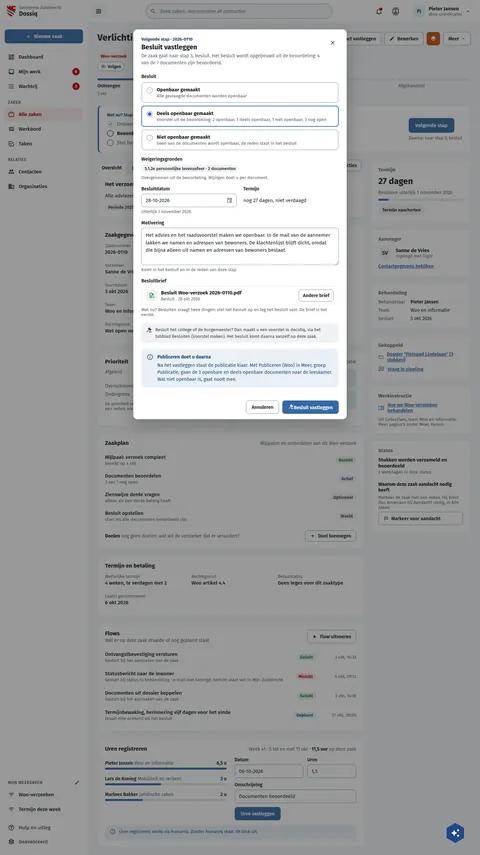
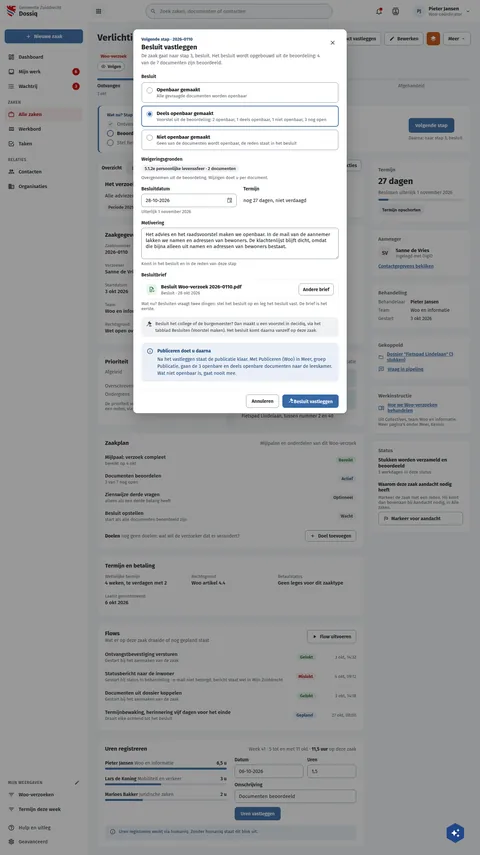
fix(screens): DqBesluit's Motivering on the normal line height
Coordinator decision: textareas keep the normal line height (116 of 183
board textareas, and the board dialog look). DqBesluit's Motivering
drew 1.5, so four rows were 112px where live draws 94.

Assisted-by: ClaudeCode:claude-opus-5-5

Changed region(s): [[0.2812, 0.2737, 0.7188, 0.517]]

diff --git a/preview/screens/boards/DqBesluit.html b/preview/screens/boards/DqBesluit.html
@@ -340,7 +340,7 @@ a{color:var(--sc-primary, #3669a5)}a:hover{color:var(--sc-primary-deep, #234a78)
           <div style="display: flex; flex-direction: column; gap: 6px"><label for="bs-datum" style="font-size: 14px; font-weight: 600">Besluitdatum</label><span style="position: relative; display: block"><input id="bs-datum" type="text" value="28-10-2026" required style="box-sizing: border-box; width: 100%; height: 40px; padding: 0 12px; border: 1px solid var(--sc-work-field, #828a95); border-radius: 8px; background: #ffffff; font: 400 15px var(--sc-font, 'Fira Sans'), sans-serif; color: var(--sc-work-ink, #1b1c1d); padding-right: 40px"><svg width="18" height="18" viewbox="0 0 24 24" fill="#5e6168" style="position: absolute; right: 12px; top: 11px;fill:var(--sc-work-muted, #5e6168)" aria-hidden="true"><path d="M12 12H17V17H12V12M19 3H18V1H16V3H8V1H6V3H5C3.9 3 3 3.9 3 5V19C3 20.1 3.9 21 5 21H19C20.1 21 21 20.1 21 19V5C21 3.9 20.1 3 19 3M19 5V7H5V5H19M5 19V9H19V19H5Z"></path></svg></span><span style="font-size: 13px; color: var(--sc-work-muted, #5e6168)">Uiterlijk 1 november 2026</span></div>
           <div style="display: flex; flex-direction: column; gap: 6px"><span style="font-size: 14px; font-weight: 600">Termijn</span><span style="display: flex; align-items: center; height: 40px; font-size: 15px">nog 27 dagen, niet verdaagd</span></div>
         </div>
-        <div style="display: flex; flex-direction: column; gap: 6px"><label for="bs-motivering" style="font-size: 14px; font-weight: 600">Motivering</label><textarea id="bs-motivering" rows="4" required style="box-sizing: border-box; width: 100%; padding: 10px 12px; border: 1px solid var(--sc-work-field, #828a95); border-radius: 8px; font: 400 15px var(--sc-font, 'Fira Sans'), sans-serif; color: var(--sc-work-ink, #1b1c1d); line-height: 1.5; resize: vertical">Het advies en het raadsvoorstel maken we openbaar. In de mail van de aannemer lakken we namen en adressen van bewoners. De klachtenlijst blijft dicht, omdat die bijna alleen uit namen en adressen van bewoners bestaat.</textarea><span style="font-size: 13px; color: var(--sc-work-muted, #5e6168)">Komt in het besluit en in de reden van deze stap</span></div><div style="display: flex; flex-direction: column; gap: 6px"><span style="font-size: 14px; font-weight: 600">Besluitbrief</span><div style="display: flex; flex-wrap: wrap; align-items: center; gap: 12px; padding: 10px 14px; border: 1px solid var(--sc-work-line, #e4e6ea); border-radius: 8px"><span style="display: inline-flex; width: 32px; height: 32px; border-radius: 8px; background: #e7f3ea; color: #1e6b2a; align-items: center; justify-content: center; flex: none"><svg width="18" height="18" viewbox="0 0 24 24" fill="currentColor" aria-hidden="true"><path d="M23.5 17L18.5 22L15 18.5L16.5 17L18.5 19L22 15.5L23.5 17M6 2C4.89 2 4 2.9 4 4V20C4 21.11 4.89 22 6 22H13.81C13.45 21.38 13.2 20.7 13.08 20H6V4H13V9H18V13.08C18.33 13.03 18.67 13 19 13C19.34 13 19.67 13.03 20 13.08V8L14 2M8 12V14H16V12M8 16V18H13V16Z"></path></svg></span><span style="display: flex; flex-direction: column; gap: 2px; flex: 1 1 240px; min-width: 0"><strong style="font-size: 15px">Besluit Woo-verzoek 2026-0110.pdf</strong><span style="font-size: 13px; color: var(--sc-work-muted, #5e6168)">Besluit · 28 okt 2026</span></span><button type="button" style="height: 36px; padding: 0 12px; border: 1px solid var(--sc-work-field, #828a95); border-radius: 8px; background: #ffffff; font: 600 14px var(--sc-font, 'Fira Sans'), sans-serif; color: var(--sc-work-ink, #1b1c1d)">Andere brief</button></div><span style="font-size: 13px; color: var(--sc-work-muted, #5e6168)">Wat nu? Besluiten vraagt twee dingen: stel het besluit op en leg het besluit vast. De brief is het eerste.</span></div><div style="display: flex; gap: 10px; align-items: flex-start; padding: 10px 14px; border-radius: 10px; background: var(--sc-work-chip, #f0f1f3); color: var(--sc-work-text, #3d4047); font-size: 13px; line-height: 1.5"><svg width="18" height="18" viewbox="0 0 24 24" fill="currentColor" aria-hidden="true" style="flex: none; margin-top: 1px"><path d="M2.3,20.28L11.9,10.68L10.5,9.26L9.78,9.97C9.39,10.36 8.76,10.36 8.37,9.97L7.66,9.26C7.27,8.87 7.27,8.24 7.66,7.85L13.32,2.19C13.71,1.8 14.34,1.8 14.73,2.19L15.44,2.9C15.83,3.29 15.83,3.92 15.44,4.31L14.73,5L16.15,6.43C16.54,6.04 17.17,6.04 17.56,6.43C17.95,6.82 17.95,7.46 17.56,7.85L18.97,9.26L19.68,8.55C20.07,8.16 20.71,8.16 21.1,8.55L21.8,9.26C22.19,9.65 22.19,10.29 21.8,10.68L16.15,16.33C15.76,16.72 15.12,16.72 14.73,16.33L14.03,15.63C13.63,15.24 13.63,14.6 14.03,14.21L14.73,13.5L13.32,12.09L3.71,21.7C3.32,22.09 2.69,22.09 2.3,21.7C1.91,21.31 1.91,20.67 2.3,20.28M20,19A2,2 0 0,1 22,21V22H12V21A2,2 0 0,1 14,19H20Z"></path></svg><span>Besluit het college of de burgemeester? Dan maakt u een voorstel in decidiq, via het tabblad Besluiten (Voorstel maken). Het besluit komt daarna vanzelf op deze zaak.</span></div>
+        <div style="display: flex; flex-direction: column; gap: 6px"><label for="bs-motivering" style="font-size: 14px; font-weight: 600">Motivering</label><textarea id="bs-motivering" rows="4" required style="box-sizing: border-box; width: 100%; padding: 10px 12px; border: 1px solid var(--sc-work-field, #828a95); border-radius: 8px; font: 400 15px var(--sc-font, 'Fira Sans'), sans-serif; color: var(--sc-work-ink, #1b1c1d); resize: vertical">Het advies en het raadsvoorstel maken we openbaar. In de mail van de aannemer lakken we namen en adressen van bewoners. De klachtenlijst blijft dicht, omdat die bijna alleen uit namen en adressen van bewoners bestaat.</textarea><span style="font-size: 13px; color: var(--sc-work-muted, #5e6168)">Komt in het besluit en in de reden van deze stap</span></div><div style="display: flex; flex-direction: column; gap: 6px"><span style="font-size: 14px; font-weight: 600">Besluitbrief</span><div style="display: flex; flex-wrap: wrap; align-items: center; gap: 12px; padding: 10px 14px; border: 1px solid var(--sc-work-line, #e4e6ea); border-radius: 8px"><span style="display: inline-flex; width: 32px; height: 32px; border-radius: 8px; background: #e7f3ea; color: #1e6b2a; align-items: center; justify-content: center; flex: none"><svg width="18" height="18" viewbox="0 0 24 24" fill="currentColor" aria-hidden="true"><path d="M23.5 17L18.5 22L15 18.5L16.5 17L18.5 19L22 15.5L23.5 17M6 2C4.89 2 4 2.9 4 4V20C4 21.11 4.89 22 6 22H13.81C13.45 21.38 13.2 20.7 13.08 20H6V4H13V9H18V13.08C18.33 13.03 18.67 13 19 13C19.34 13 19.67 13.03 20 13.08V8L14 2M8 12V14H16V12M8 16V18H13V16Z"></path></svg></span><span style="display: flex; flex-direction: column; gap: 2px; flex: 1 1 240px; min-width: 0"><strong style="font-size: 15px">Besluit Woo-verzoek 2026-0110.pdf</strong><span style="font-size: 13px; color: var(--sc-work-muted, #5e6168)">Besluit · 28 okt 2026</span></span><button type="button" style="height: 36px; padding: 0 12px; border: 1px solid var(--sc-work-field, #828a95); border-radius: 8px; background: #ffffff; font: 600 14px var(--sc-font, 'Fira Sans'), sans-serif; color: var(--sc-work-ink, #1b1c1d)">Andere brief</button></div><span style="font-size: 13px; color: var(--sc-work-muted, #5e6168)">Wat nu? Besluiten vraagt twee dingen: stel het besluit op en leg het besluit vast. De brief is het eerste.</span></div><div style="display: flex; gap: 10px; align-items: flex-start; padding: 10px 14px; border-radius: 10px; background: var(--sc-work-chip, #f0f1f3); color: var(--sc-work-text, #3d4047); font-size: 13px; line-height: 1.5"><svg width="18" height="18" viewbox="0 0 24 24" fill="currentColor" aria-hidden="true" style="flex: none; margin-top: 1px"><path d="M2.3,20.28L11.9,10.68L10.5,9.26L9.78,9.97C9.39,10.36 8.76,10.36 8.37,9.97L7.66,9.26C7.27,8.87 7.27,8.24 7.66,7.85L13.32,2.19C13.71,1.8 14.34,1.8 14.73,2.19L15.44,2.9C15.83,3.29 15.83,3.92 15.44,4.31L14.73,5L16.15,6.43C16.54,6.04 17.17,6.04 17.56,6.43C17.95,6.82 17.95,7.46 17.56,7.85L18.97,9.26L19.68,8.55C20.07,8.16 20.71,8.16 21.1,8.55L21.8,9.26C22.19,9.65 22.19,10.29 21.8,10.68L16.15,16.33C15.76,16.72 15.12,16.72 14.73,16.33L14.03,15.63C13.63,15.24 13.63,14.6 14.03,14.21L14.73,13.5L13.32,12.09L3.71,21.7C3.32,22.09 2.69,22.09 2.3,21.7C1.91,21.31 1.91,20.67 2.3,20.28M20,19A2,2 0 0,1 22,21V22H12V21A2,2 0 0,1 14,19H20Z"></path></svg><span>Besluit het college of de burgemeester? Dan maakt u een voorstel in decidiq, via het tabblad Besluiten (Voorstel maken). Het besluit komt daarna vanzelf op deze zaak.</span></div>
         <div style="display: flex; gap: 12px; padding: 14px 16px; border-radius: 10px; background: var(--sc-primary-light, #eaf0f7); color: var(--sc-primary-deep, #234a78)">
           <svg width="20" height="20" viewbox="0 0 24 24" fill="currentColor" style="flex: none; margin-top: 1px" aria-hidden="true"><path d="M11,9H13V7H11M12,20C7.59,20 4,16.41 4,12C4,7.59 7.59,4 12,4C16.41,4 20,7.59 20,12C20,16.41 16.41,20 12,20M12,2A10,10 0 0,0 2,12A10,10 0 0,0 12,22A10,10 0 0,0 22,12A10,10 0 0,0 12,2M11,17H13V11H11V17Z"></path></svg>
           <span style="display: flex; flex-direction: column; gap: 4px; font-size: 14px; line-height: 1.5"><strong>Publiceren doet u daarna</strong><span>Na het vastleggen staat de publicatie klaar. Met Publiceren (Woo) in Meer, groep Publicatie, gaan de 3 openbare en deels openbare documenten naar de leeskamer. Wat niet openbaar is, gaat nooit mee.</span></span>

diff --git a/screens-src/zuiddrecht/DqBesluit.dc.html b/screens-src/zuiddrecht/DqBesluit.dc.html
@@ -190,7 +190,7 @@ a{color:#3669a5}a:hover{color:#234a78}
           <div style="display: flex; flex-direction: column; gap: 6px"><label for="bs-datum" style="font-size: 14px; font-weight: 600">Besluitdatum</label><span style="position: relative; display: block"><input id="bs-datum" type="text" value="28-10-2026" required style="box-sizing: border-box; width: 100%; height: 40px; padding: 0 12px; border: 1px solid #828a95; border-radius: 8px; background: #ffffff; font: 400 15px 'Fira Sans', sans-serif; color: #1b1c1d; padding-right: 40px"><svg width="18" height="18" viewBox="0 0 24 24" fill="#5e6168" style="position: absolute; right: 12px; top: 11px" aria-hidden="true"><path d="M12 12H17V17H12V12M19 3H18V1H16V3H8V1H6V3H5C3.9 3 3 3.9 3 5V19C3 20.1 3.9 21 5 21H19C20.1 21 21 20.1 21 19V5C21 3.9 20.1 3 19 3M19 5V7H5V5H19M5 19V9H19V19H5Z"></path></svg></span><span style="font-size: 13px; color: #5e6168">Uiterlijk 1 november 2026</span></div>
           <div style="display: flex; flex-direction: column; gap: 6px"><span style="font-size: 14px; font-weight: 600">Termijn</span><span style="display: flex; align-items: center; height: 40px; font-size: 15px">nog 27 dagen, niet verdaagd</span></div>
         </div>
-        <div style="display: flex; flex-direction: column; gap: 6px"><label for="bs-motivering" style="font-size: 14px; font-weight: 600">Motivering</label><textarea id="bs-motivering" rows="4" required style="box-sizing: border-box; width: 100%; padding: 10px 12px; border: 1px solid #828a95; border-radius: 8px; font: 400 15px 'Fira Sans', sans-serif; color: #1b1c1d; line-height: 1.5; resize: vertical">Het advies en het raadsvoorstel maken we openbaar. In de mail van de aannemer lakken we namen en adressen van bewoners. De klachtenlijst blijft dicht, omdat die bijna alleen uit namen en adressen van bewoners bestaat.</textarea><span style="font-size: 13px; color: #5e6168">Komt in het besluit en in de reden van deze stap</span></div><div style="display: flex; flex-direction: column; gap: 6px"><span style="font-size: 14px; font-weight: 600">Besluitbrief</span><div style="display: flex; flex-wrap: wrap; align-items: center; gap: 12px; padding: 10px 14px; border: 1px solid #e4e6ea; border-radius: 8px"><span style="display: inline-flex; width: 32px; height: 32px; border-radius: 8px; background: #e7f3ea; color: #1e6b2a; align-items: center; justify-content: center; flex: none"><svg width="18" height="18" viewBox="0 0 24 24" fill="currentColor" aria-hidden="true"><path d="M23.5 17L18.5 22L15 18.5L16.5 17L18.5 19L22 15.5L23.5 17M6 2C4.89 2 4 2.9 4 4V20C4 21.11 4.89 22 6 22H13.81C13.45 21.38 13.2 20.7 13.08 20H6V4H13V9H18V13.08C18.33 13.03 18.67 13 19 13C19.34 13 19.67 13.03 20 13.08V8L14 2M8 12V14H16V12M8 16V18H13V16Z"></path></svg></span><span style="display: flex; flex-direction: column; gap: 2px; flex: 1 1 240px; min-width: 0"><strong style="font-size: 15px">Besluit Woo-verzoek 2026-0110.pdf</strong><span style="font-size: 13px; color: #5e6168">Besluit · 28 okt 2026</span></span><button type="button" style="height: 36px; padding: 0 12px; border: 1px solid #828a95; border-radius: 8px; background: #ffffff; font: 600 14px 'Fira Sans', sans-serif; color: #1b1c1d">Andere brief</button></div><span style="font-size: 13px; color: #5e6168">Wat nu? Besluiten vraagt twee dingen: stel het besluit op en leg het besluit vast. De brief is het eerste.</span></div><div style="display: flex; gap: 10px; align-items: flex-start; padding: 10px 14px; border-radius: 10px; background: #f0f1f3; color: #3d4047; font-size: 13px; line-height: 1.5"><svg width="18" height="18" viewBox="0 0 24 24" fill="currentColor" aria-hidden="true" style="flex: none; margin-top: 1px"><path d="M2.3,20.28L11.9,10.68L10.5,9.26L9.78,9.97C9.39,10.36 8.76,10.36 8.37,9.97L7.66,9.26C7.27,8.87 7.27,8.24 7.66,7.85L13.32,2.19C13.71,1.8 14.34,1.8 14.73,2.19L15.44,2.9C15.83,3.29 15.83,3.92 15.44,4.31L14.73,5L16.15,6.43C16.54,6.04 17.17,6.04 17.56,6.43C17.95,6.82 17.95,7.46 17.56,7.85L18.97,9.26L19.68,8.55C20.07,8.16 20.71,8.16 21.1,8.55L21.8,9.26C22.19,9.65 22.19,10.29 21.8,10.68L16.15,16.33C15.76,16.72 15.12,16.72 14.73,16.33L14.03,15.63C13.63,15.24 13.63,14.6 14.03,14.21L14.73,13.5L13.32,12.09L3.71,21.7C3.32,22.09 2.69,22.09 2.3,21.7C1.91,21.31 1.91,20.67 2.3,20.28M20,19A2,2 0 0,1 22,21V22H12V21A2,2 0 0,1 14,19H20Z"></path></svg><span>Besluit het college of de burgemeester? Dan maakt u een voorstel in decidiq, via het tabblad Besluiten (Voorstel maken). Het besluit komt daarna vanzelf op deze zaak.</span></div>
+        <div style="display: flex; flex-direction: column; gap: 6px"><label for="bs-motivering" style="font-size: 14px; font-weight: 600">Motivering</label><textarea id="bs-motivering" rows="4" required style="box-sizing: border-box; width: 100%; padding: 10px 12px; border: 1px solid #828a95; border-radius: 8px; font: 400 15px 'Fira Sans', sans-serif; color: #1b1c1d; resize: vertical">Het advies en het raadsvoorstel maken we openbaar. In de mail van de aannemer lakken we namen en adressen van bewoners. De klachtenlijst blijft dicht, omdat die bijna alleen uit namen en adressen van bewoners bestaat.</textarea><span style="font-size: 13px; color: #5e6168">Komt in het besluit en in de reden van deze stap</span></div><div style="display: flex; flex-direction: column; gap: 6px"><span style="font-size: 14px; font-weight: 600">Besluitbrief</span><div style="display: flex; flex-wrap: wrap; align-items: center; gap: 12px; padding: 10px 14px; border: 1px solid #e4e6ea; border-radius: 8px"><span style="display: inline-flex; width: 32px; height: 32px; border-radius: 8px; background: #e7f3ea; color: #1e6b2a; align-items: center; justify-content: center; flex: none"><svg width="18" height="18" viewBox="0 0 24 24" fill="currentColor" aria-hidden="true"><path d="M23.5 17L18.5 22L15 18.5L16.5 17L18.5 19L22 15.5L23.5 17M6 2C4.89 2 4 2.9 4 4V20C4 21.11 4.89 22 6 22H13.81C13.45 21.38 13.2 20.7 13.08 20H6V4H13V9H18V13.08C18.33 13.03 18.67 13 19 13C19.34 13 19.67 13.03 20 13.08V8L14 2M8 12V14H16V12M8 16V18H13V16Z"></path></svg></span><span style="display: flex; flex-direction: column; gap: 2px; flex: 1 1 240px; min-width: 0"><strong style="font-size: 15px">Besluit Woo-verzoek 2026-0110.pdf</strong><span style="font-size: 13px; color: #5e6168">Besluit · 28 okt 2026</span></span><button type="button" style="height: 36px; padding: 0 12px; border: 1px solid #828a95; border-radius: 8px; background: #ffffff; font: 600 14px 'Fira Sans', sans-serif; color: #1b1c1d">Andere brief</button></div><span style="font-size: 13px; color: #5e6168">Wat nu? Besluiten vraagt twee dingen: stel het besluit op en leg het besluit vast. De brief is het eerste.</span></div><div style="display: flex; gap: 10px; align-items: flex-start; padding: 10px 14px; border-radius: 10px; background: #f0f1f3; color: #3d4047; font-size: 13px; line-height: 1.5"><svg width="18" height="18" viewBox="0 0 24 24" fill="currentColor" aria-hidden="true" style="flex: none; margin-top: 1px"><path d="M2.3,20.28L11.9,10.68L10.5,9.26L9.78,9.97C9.39,10.36 8.76,10.36 8.37,9.97L7.66,9.26C7.27,8.87 7.27,8.24 7.66,7.85L13.32,2.19C13.71,1.8 14.34,1.8 14.73,2.19L15.44,2.9C15.83,3.29 15.83,3.92 15.44,4.31L14.73,5L16.15,6.43C16.54,6.04 17.17,6.04 17.56,6.43C17.95,6.82 17.95,7.46 17.56,7.85L18.97,9.26L19.68,8.55C20.07,8.16 20.71,8.16 21.1,8.55L21.8,9.26C22.19,9.65 22.19,10.29 21.8,10.68L16.15,16.33C15.76,16.72 15.12,16.72 14.73,16.33L14.03,15.63C13.63,15.24 13.63,14.6 14.03,14.21L14.73,13.5L13.32,12.09L3.71,21.7C3.32,22.09 2.69,22.09 2.3,21.7C1.91,21.31 1.91,20.67 2.3,20.28M20,19A2,2 0 0,1 22,21V22H12V21A2,2 0 0,1 14,19H20Z"></path></svg><span>Besluit het college of de burgemeester? Dan maakt u een voorstel in decidiq, via het tabblad Besluiten (Voorstel maken). Het besluit komt daarna vanzelf op deze zaak.</span></div>
         <div style="display: flex; gap: 12px; padding: 14px 16px; border-radius: 10px; background: #eaf0f7; color: #234a78">
           <svg width="20" height="20" viewBox="0 0 24 24" fill="currentColor" style="flex: none; margin-top: 1px" aria-hidden="true"><path d="M11,9H13V7H11M12,20C7.59,20 4,16.41 4,12C4,7.59 7.59,4 12,4C16.41,4 20,7.59 20,12C20,16.41 16.41,20 12,20M12,2A10,10 0 0,0 2,12A10,10 0 0,0 12,22A10,10 0 0,0 22,12A10,10 0 0,0 12,2M11,17H13V11H11V17Z"></path></svg>
           <span style="display: flex; flex-direction: column; gap: 4px; font-size: 14px; line-height: 1.5"><strong>Publiceren doet u daarna</strong><span>Na het vastleggen staat de publicatie klaar. Met Publiceren (Woo) in Meer, groep Publicatie, gaan de 3 openbare en deels openbare documenten naar de leeskamer. Wat niet openbaar is, gaat nooit mee.</span></span>
